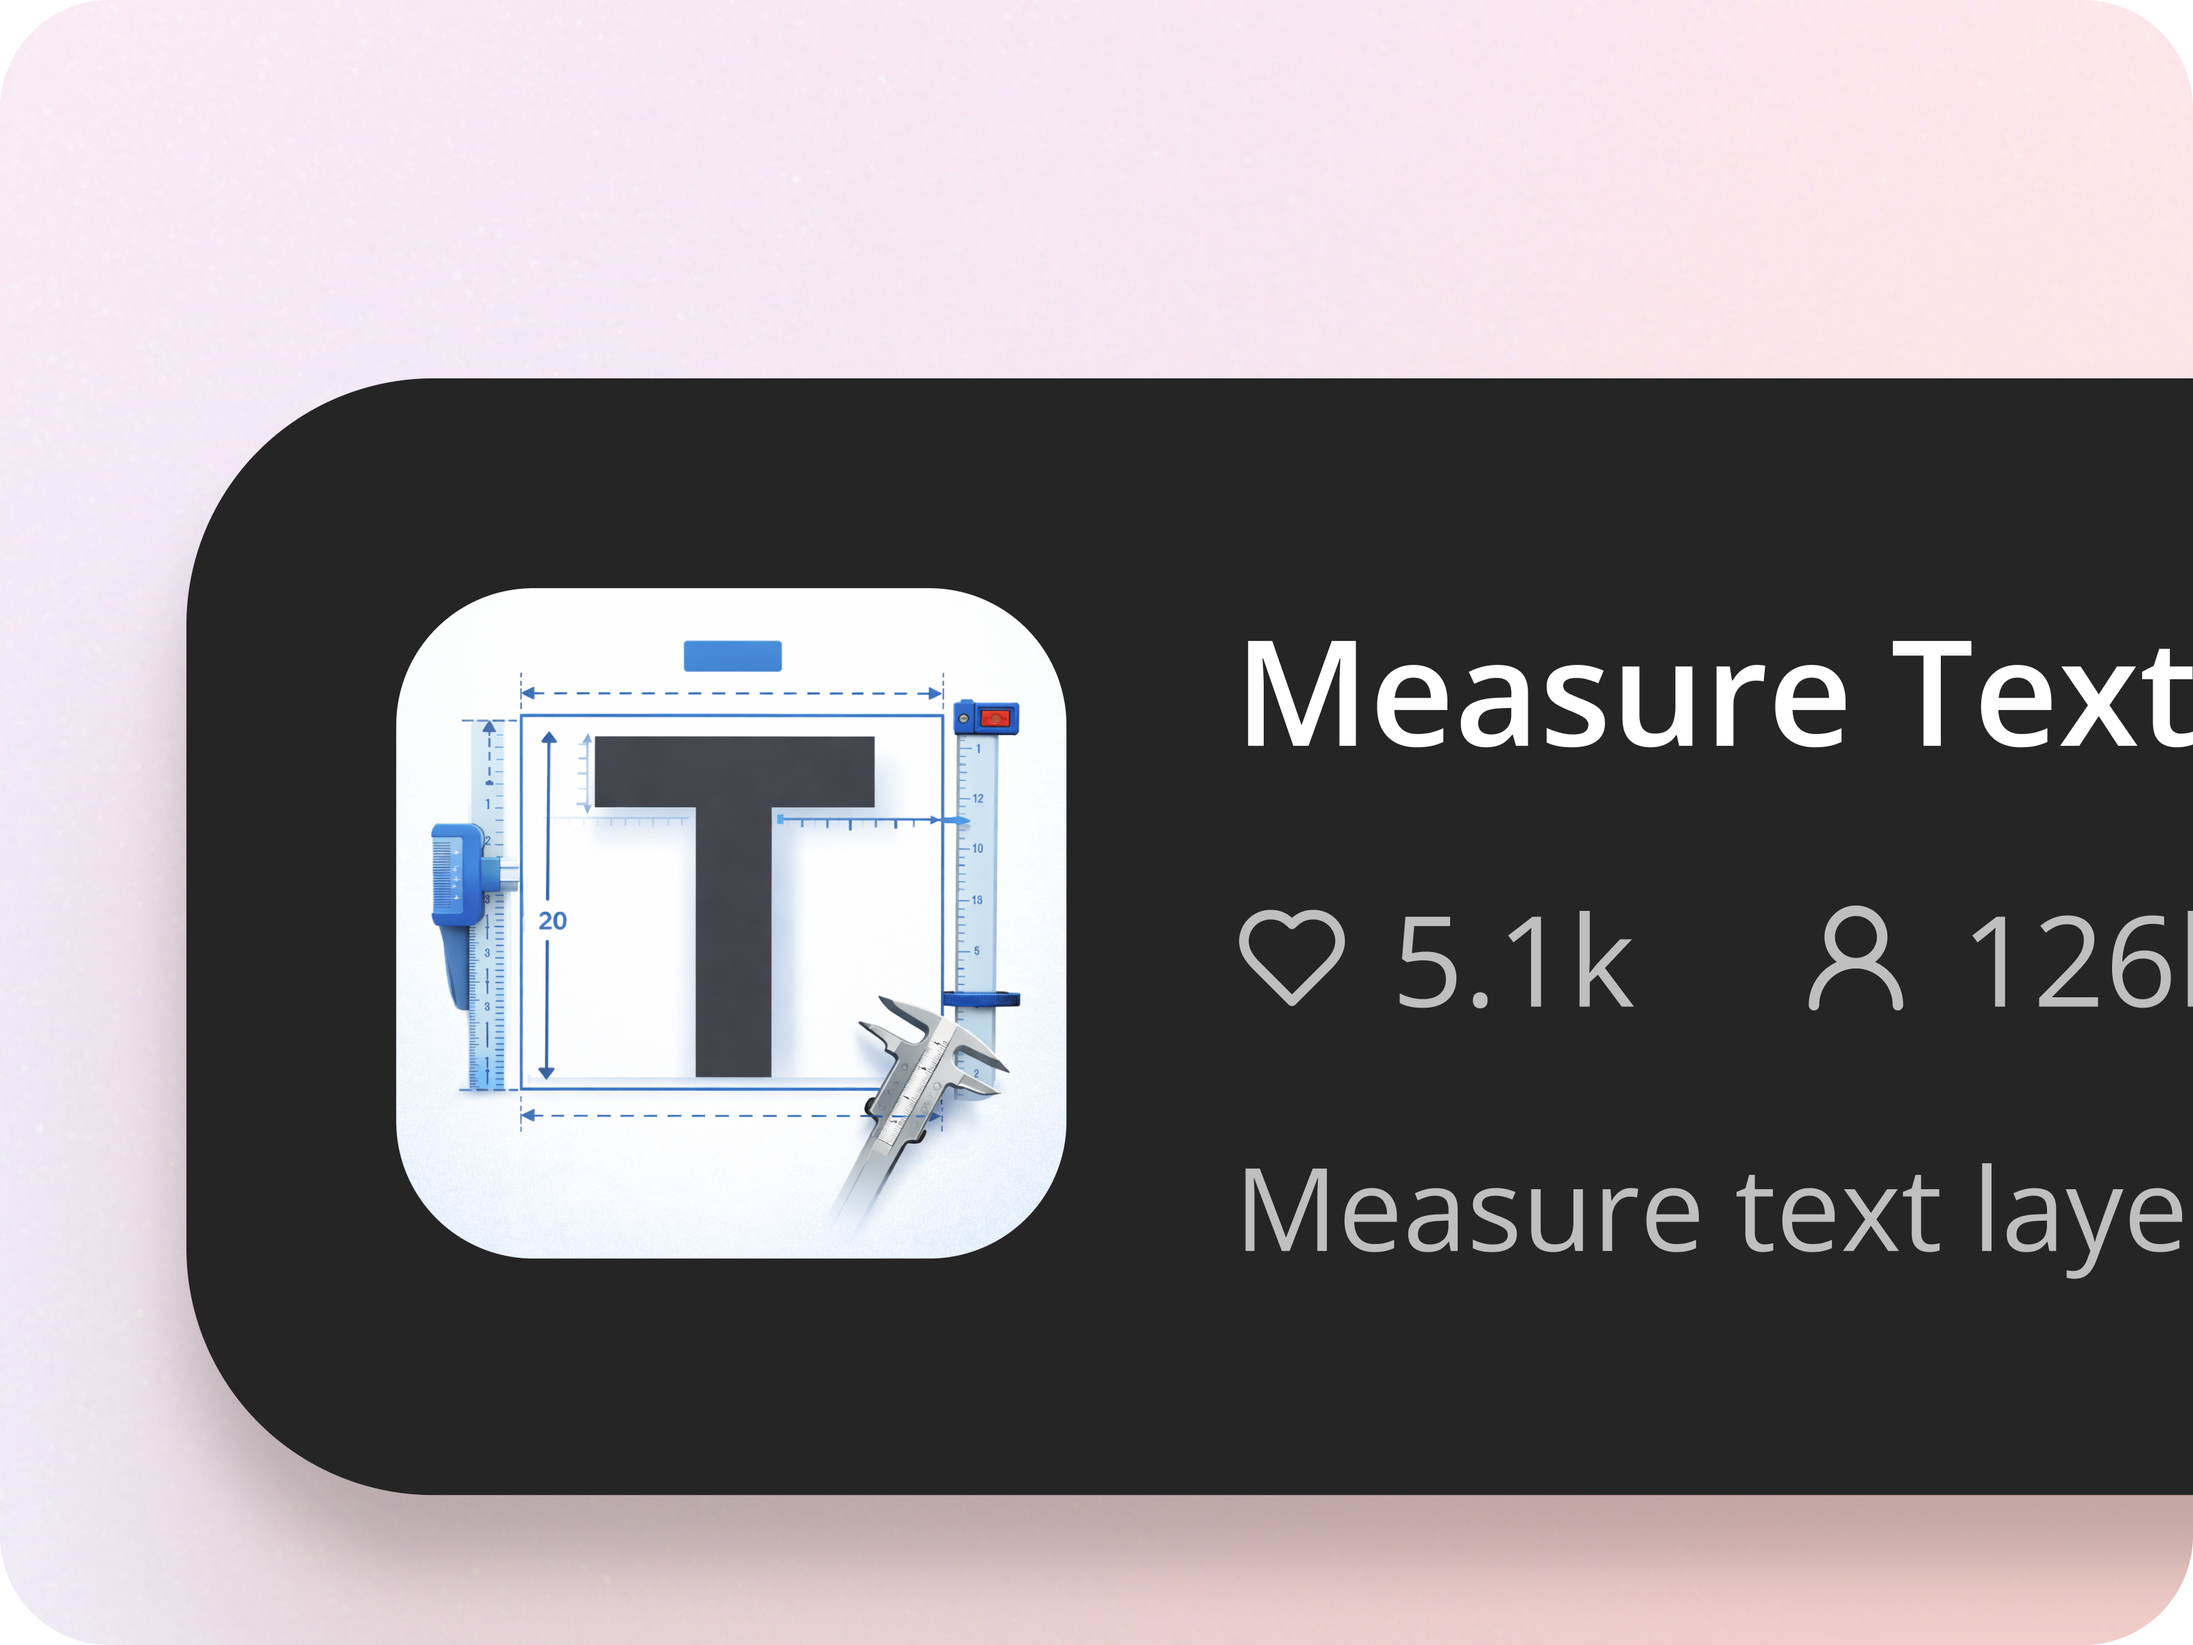
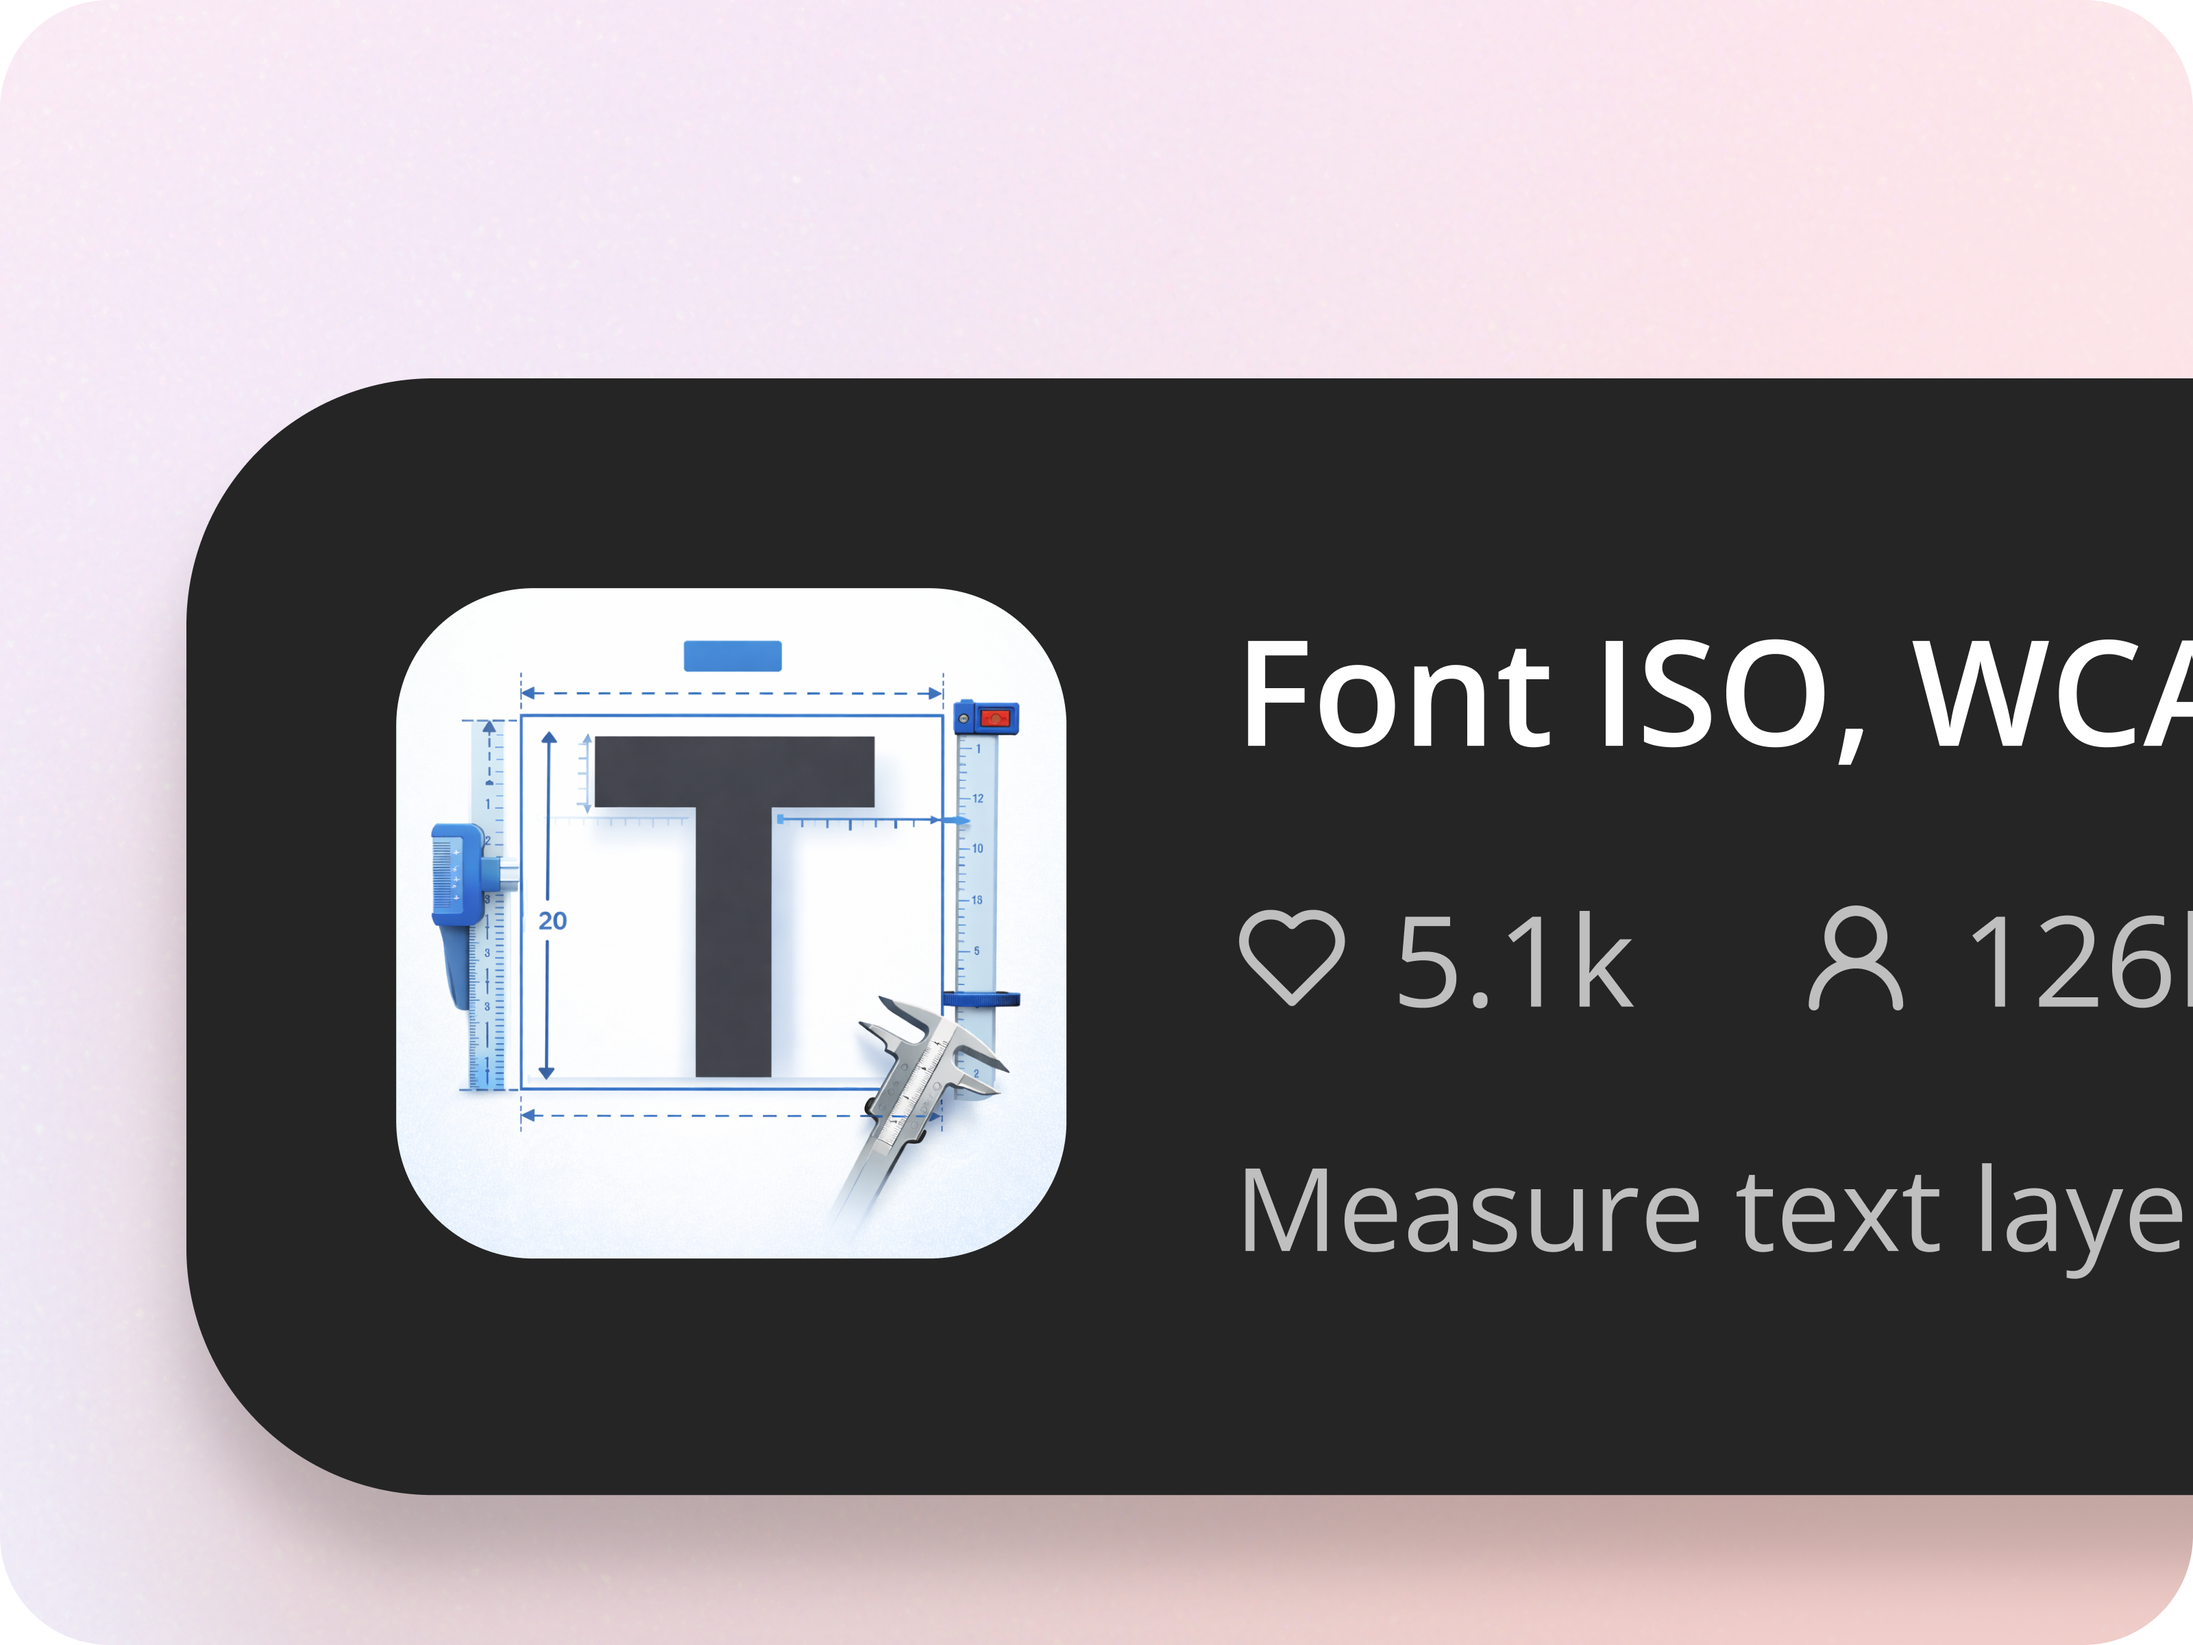
Update project and blog cards: Polygon-picker, Googit, Font ISO
- Replace AI Concierge card with Polygon-picker (new thumbnail, links to polygon-picker.vercel.app)
- Shorten Prism TLDR to fit a single line
- Rename Measure text card to Font ISO, WCAG checker with new thumbnail
- Replace Figma to Google Slide card with Googit (App Store link, new thumbnail)
- Swap blog card order so Googit comes first

Changed region(s): [[0.5625, 0.375, 0.8438, 0.4688], [0.875, 0.375, 1.0, 0.4688]]

diff --git a/app/page.tsx b/app/page.tsx
@@ -484,17 +484,17 @@ export default function Home() {
         {/* Works Section - 6 projects in 2 columns */}
         <section id="project" className="py-0">
           <div className="grid grid-cols-1 md:grid-cols-2 gap-2">
-            {/* Project Card 1 - AI Concierge */}
+            {/* Project Card 1 - Polygon-picker */}
             <Link
-              href="https://dribbble.com/shots/27362438-One-Conversation-Hello-to-Thank-You?utm_source=Clipboard_Shot&utm_campaign=youngsah&utm_content=One%20Conversation.%20Hello%20to%20Thank%20You.&utm_medium=Social_Share"
+              href="https://polygon-picker.vercel.app"
               target="_blank"
               rel="noopener noreferrer"
               className="project-card border-border cursor-pointer p-4 border-0 block"
             >
               <div className="aspect-[4/3] w-full overflow-hidden mb-6">
                 <Image
-                  src={`${base}/images/ai-concierge.png`}
-                  alt="AI Concierge project thumbnail"
+                  src={`${base}/images/polygon-picker.png`}
+                  alt="Polygon-picker project thumbnail"
                   width={600}
                   height={400}
                   className="h-full w-full object-cover"
@@ -502,11 +502,11 @@ export default function Home() {
               </div>
               <div>
                 <div className="flex flex-col md:flex-row md:items-center md:justify-between mb-2 gap-1 md:gap-0">
-                  <h3 className="text-base font-normal text-foreground">AI Concierge</h3>
+                  <h3 className="text-base font-normal text-foreground">Polygon-picker</h3>
                   <p className="text-base text-input font-normal">AI project</p>
                 </div>
                 <p className="hidden md:block text-sm text-input font-normal max-w-[80%]">
-                  TLDR; One conversation: Hello to Thank You.
+                  TLDR; Trace floor plans into interactive room polygons.
                 </p>
               </div>
             </Link>
@@ -533,7 +533,7 @@ export default function Home() {
                   <p className="text-base text-input font-normal">AI project</p>
                 </div>
                 <p className="hidden md:block text-sm text-input font-normal max-w-[80%]">
-                  TLDR; CS Console — Where customer support becomes product signal.
+                  TLDR; Where customer support becomes product signal.
                 </p>
               </div>
             </Link>
@@ -826,6 +826,40 @@ export default function Home() {
             {/* Blog Card 1 */}
             <div className="border-border cursor-pointer group p-4 border-0 bg-transparent">
               <Link
+                href="https://apps.apple.com/us/app/googit/id6779139274"
+                target="_blank"
+                rel="noopener noreferrer"
+                className="block aspect-[4/3] w-full overflow-hidden mb-6 rounded-[24px]"
+              >
+                <Image
+                  src={`${base}/images/googit.png`}
+                  alt="Blog post thumbnail"
+                  width={600}
+                  height={400}
+                  className="blog-image h-full w-full object-cover rounded-[24px]"
+                />
+              </Link>
+              <div>
+                <div className="flex flex-col md:flex-row md:items-center md:justify-between gap-1 md:gap-0">
+                  <h3 className="text-base leading-7 font-normal text-foreground">Googit</h3>
+                  <div className="flex items-center gap-1">
+                    <Link
+                      href="https://apps.apple.com/us/app/googit/id6779139274"
+                      target="_blank"
+                      rel="noopener noreferrer"
+                      className="nav-link text-muted-foreground hover:text-foreground transition-colors text-base"
+                    >
+                      App Store
+                    </Link>
+                    <ArrowUpRight className="h-4 w-4 text-muted-foreground" />
+                  </div>
+                </div>
+              </div>
+            </div>
+
+            {/* Blog Card 2 */}
+            <div className="border-border cursor-pointer group p-4 border-0 bg-transparent">
+              <Link
                 href="https://www.figma.com/community/plugin/1585181547477168350"
                 target="_blank"
                 rel="noopener noreferrer"
@@ -841,7 +875,7 @@ export default function Home() {
               </Link>
               <div>
                 <div className="flex flex-col md:flex-row md:items-center md:justify-between gap-1 md:gap-0">
-                  <h3 className="text-base leading-7 font-normal text-foreground"> Measure text </h3>
+                  <h3 className="text-base leading-7 font-normal text-foreground"> Font ISO, WCAG checker</h3>
                   <div className="flex items-center gap-1">
                     <Link
                       href="https://www.figma.com/community/plugin/1585181547477168350"
@@ -850,40 +884,6 @@ export default function Home() {
                       className="nav-link text-muted-foreground hover:text-foreground transition-colors text-base font-normal"
                     >
                       Figma
-                    </Link>
-                    <ArrowUpRight className="h-4 w-4 text-muted-foreground" />
-                  </div>
-                </div>
-              </div>
-            </div>
-
-            {/* Blog Card 2 */}
-            <div className="border-border cursor-pointer group p-4 border-0 bg-transparent">
-              <Link
-                href="https://medium.com/@ysa_32921/figma-to-google-slides-with-gpt-86e93de57f82"
-                target="_blank"
-                rel="noopener noreferrer"
-                className="block aspect-[4/3] w-full overflow-hidden mb-6 rounded-[24px]"
-              >
-                <Image
-                  src={`${base}/images/figma-to-google-slide.png`}
-                  alt="Blog post thumbnail"
-                  width={600}
-                  height={400}
-                  className="blog-image h-full w-full object-cover rounded-[24px]"
-                />
-              </Link>
-              <div>
-                <div className="flex flex-col md:flex-row md:items-center md:justify-between gap-1 md:gap-0">
-                  <h3 className="text-base leading-7 font-normal text-foreground">Figma to Google Slide</h3>
-                  <div className="flex items-center gap-1">
-                    <Link
-                      href="https://medium.com/@ysa_32921/figma-to-google-slides-with-gpt-86e93de57f82"
-                      target="_blank"
-                      rel="noopener noreferrer"
-                      className="nav-link text-muted-foreground hover:text-foreground transition-colors text-base"
-                    >
-                      Medium
                     </Link>
                     <ArrowUpRight className="h-4 w-4 text-muted-foreground" />
                   </div>
